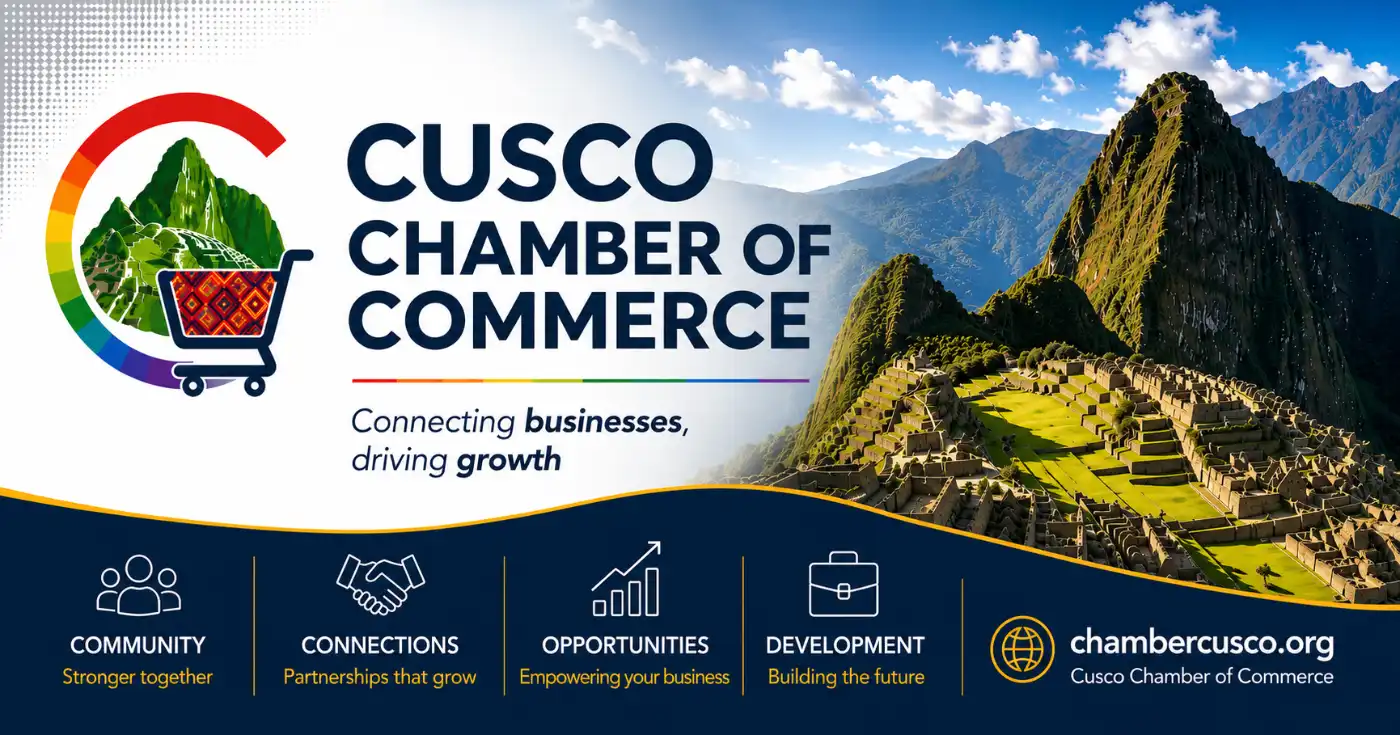
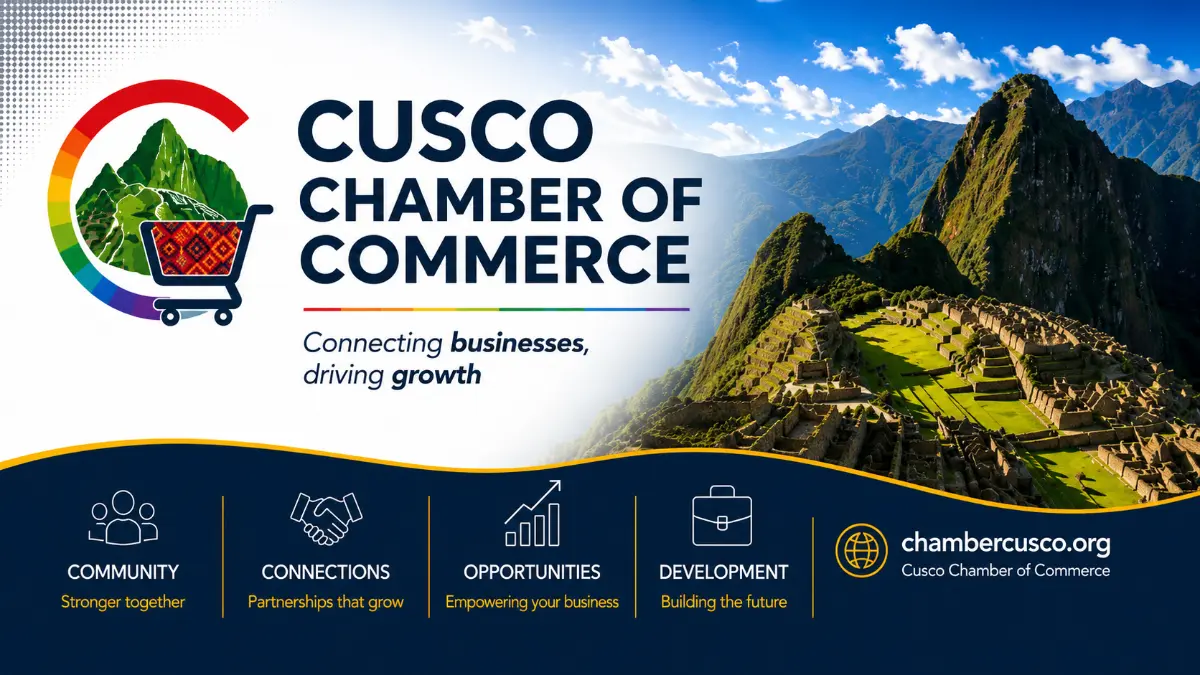
Refine Discover page layout, dialogs, localStorage, and responsive design

diff --git a/chamber/styles/small.css b/chamber/styles/small.css
@@ -272,13 +272,45 @@ main {
     padding: 1rem;
 }
 
+/* ..... HERO CTA .....*/
+
 .hero-cta {
     position: absolute;
-    bottom: 1rem;
-    right: 1rem;
     z-index: 2;
+
+    right: 1rem;
+    bottom: .25rem;
+
+    background: rgba(0, 0, 0, 0.25);
+    border-radius: 10px;
 }
 
+/*..... Small Mobile Devices ...*/
+@media (max-width: 400px) {
+
+    .hero-cta {
+        transform: scale(0.80);
+        transform-origin: bottom right;
+    }
+}
+
+/*... Large Mobile Devices..... */
+@media (min-width: 401px) and (max-width: 600px) {
+
+    .hero-cta {
+        transform: scale(0.90);
+        transform-origin: bottom right;
+    }
+}
+
+/*..... Tablet and Desktop ....*/
+@media (min-width: 601px) {
+
+    .hero-cta {
+        transform: scale(1);
+        transform-origin: bottom right;
+    }
+}
 
 /* ..............  BUTTONS  ............... */
 